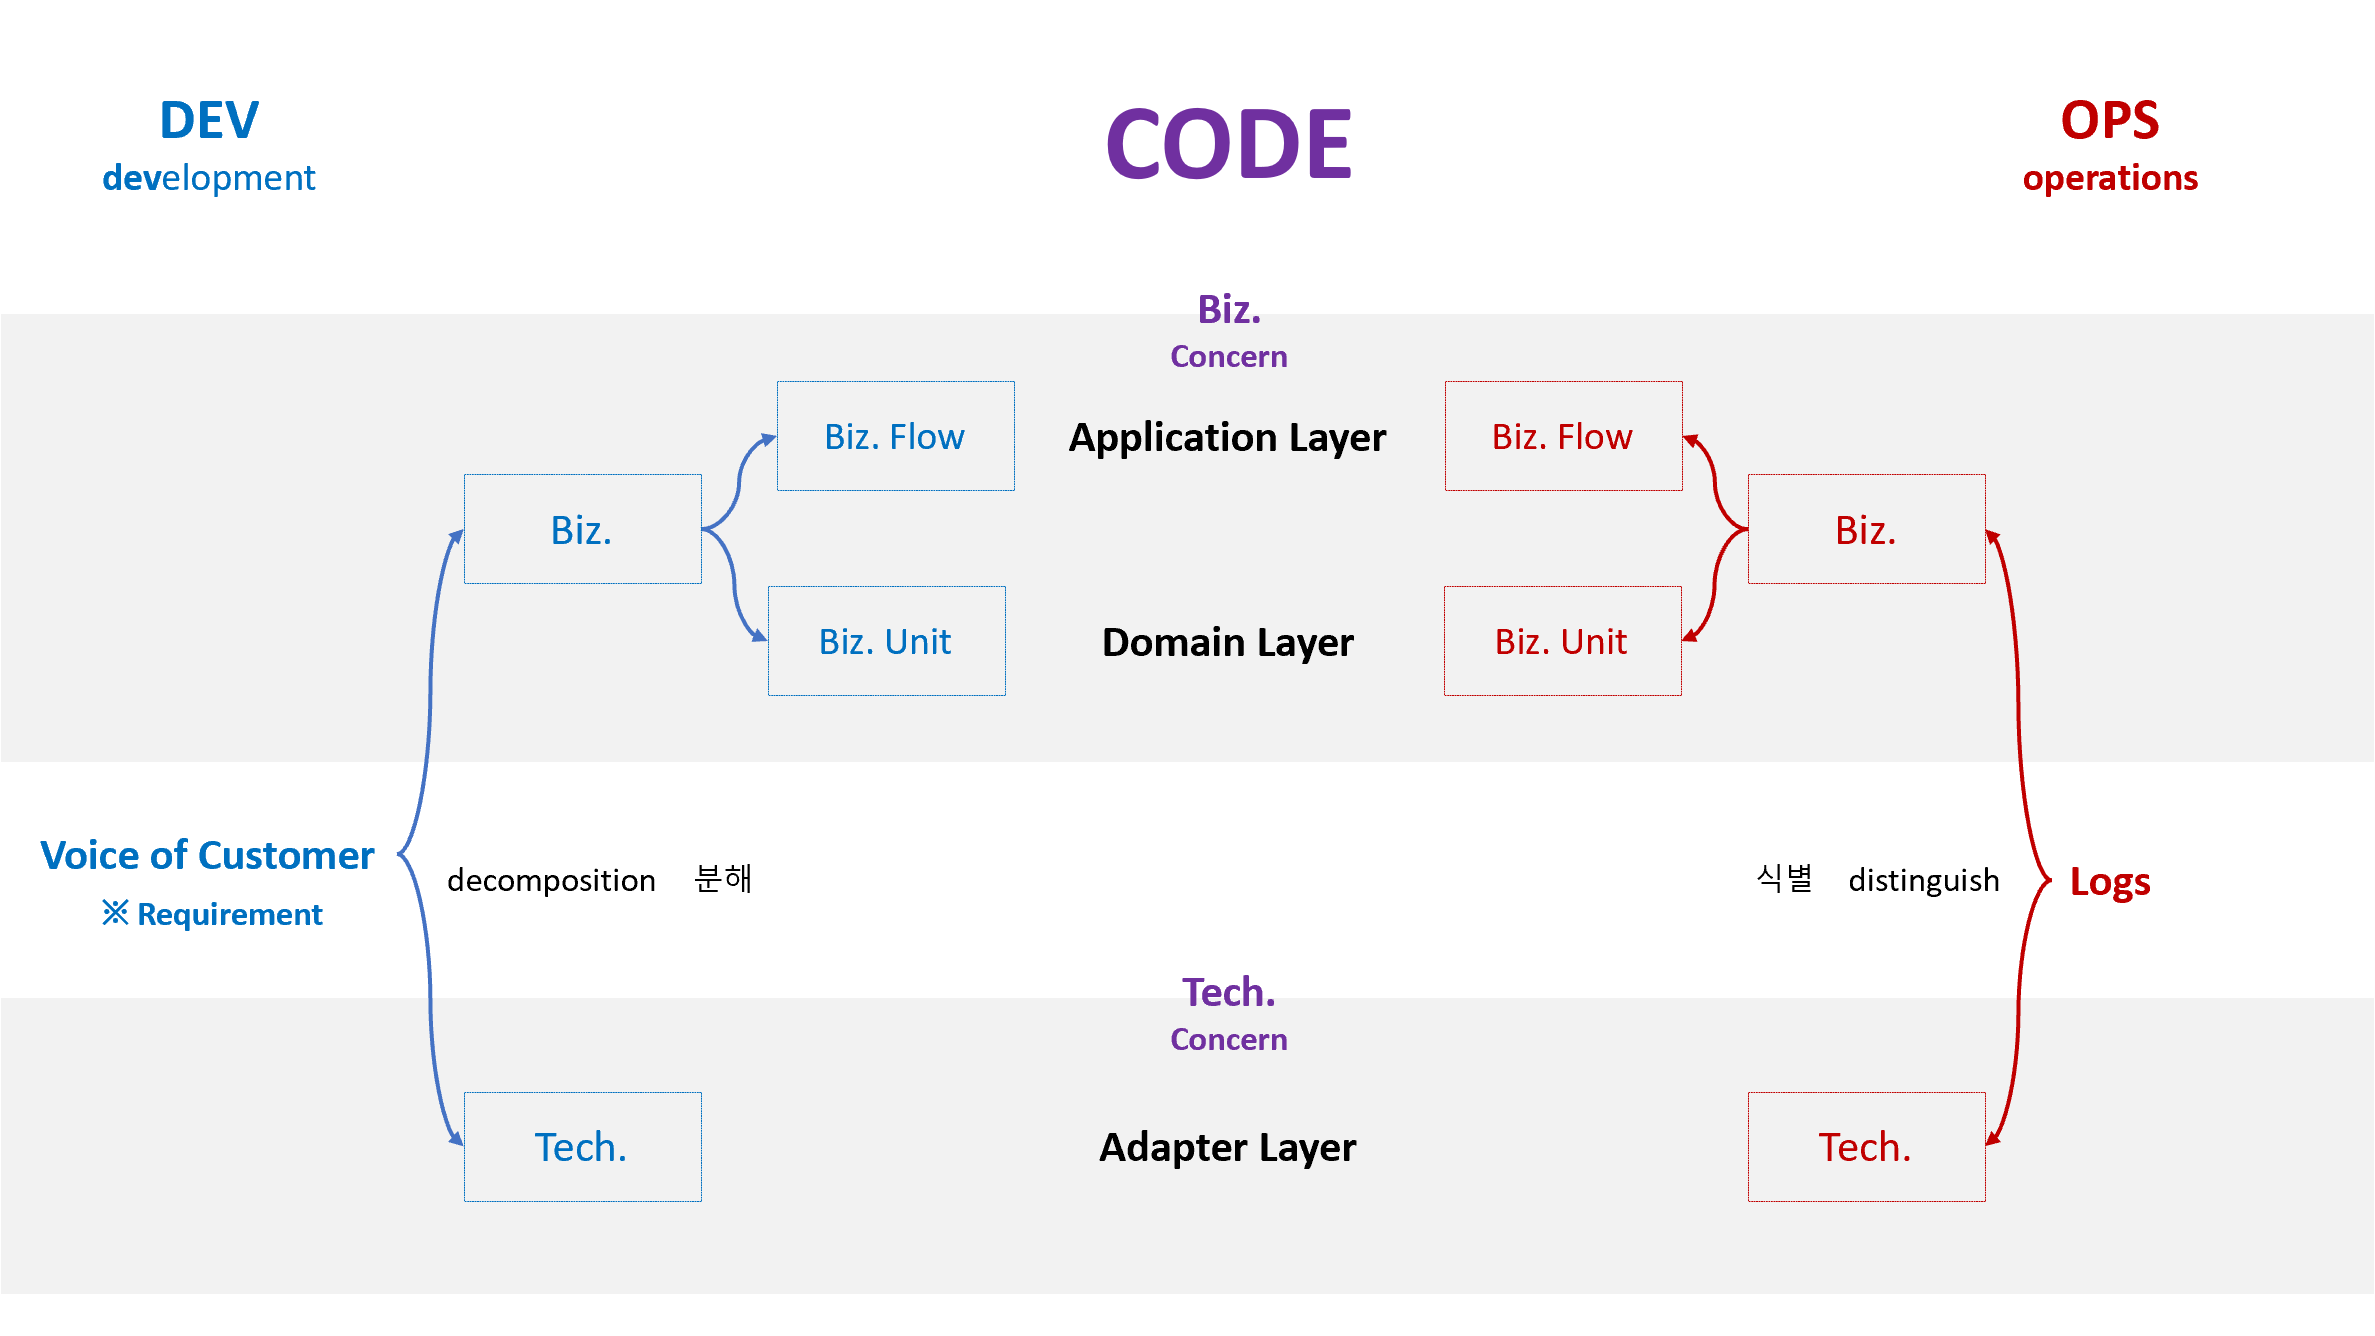
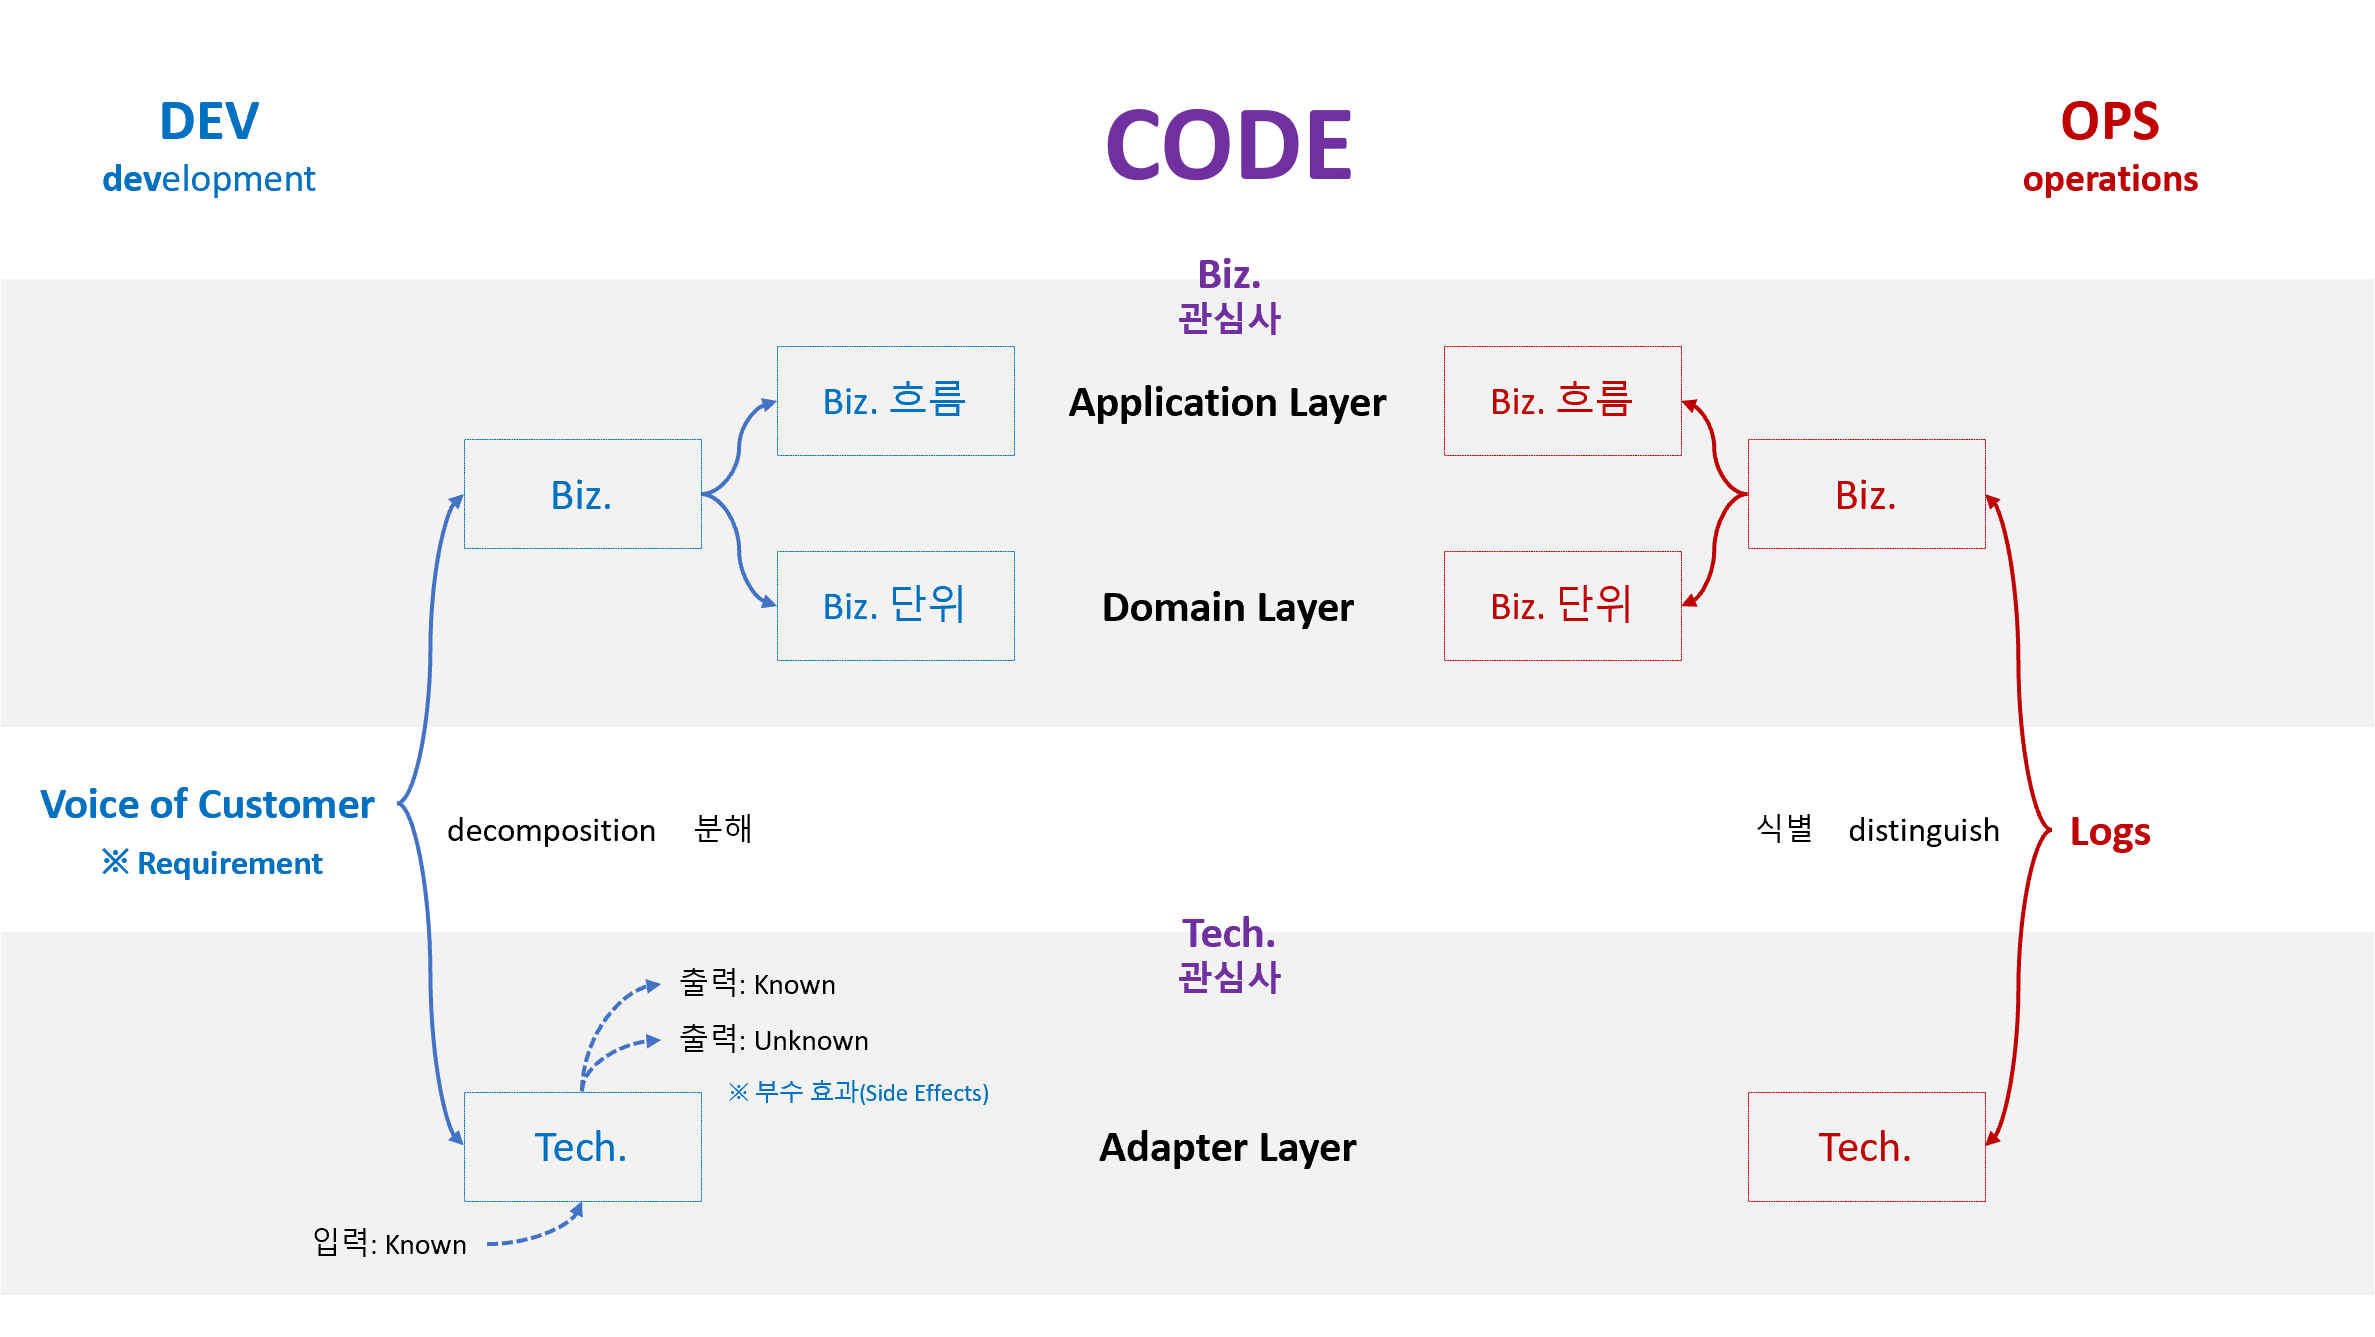
fix: 관심사의 분리 단위 세분화

diff --git a/Part01-Overview/Ch01-SoC/README.md b/Part01-Overview/Ch01-SoC/README.md
@@ -2,13 +2,17 @@
 
 ## 관심사
 ### 분리
-- 개발할 때: **요구사항**을 비즈니스와 기술 관심사로 분해합니다.
-- 운영할 때: **로그**를 비즈니스와 기술 관심사로 식별합니다.
+- **개발할 때**: **요구사항**을 비즈니스와 기술 관심사로 분해합니다.
+- **운영할 때**: **로그**를 비즈니스와 기술 관심사로 식별합니다.
 
 ### 레이어
 - 분해하고 식별된 코드는 **레이어 단위**로 관리합니다.
   - 기술 관심사
     - Adapter
+      - 입력: Known
+      - 출력
+        - Known
+        - Unknown: 부수 효과(Side Effect)
   - 비즈니스 관심사
     - Application: 비즈니스 흐름
     - Domain: 비즈니스 단위
